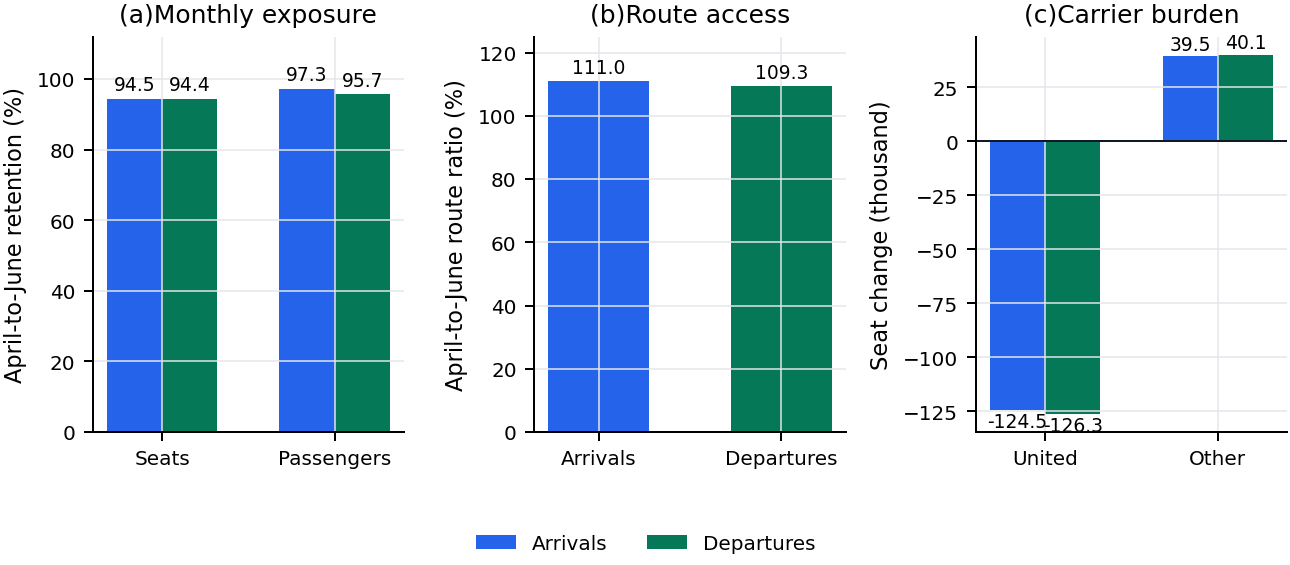
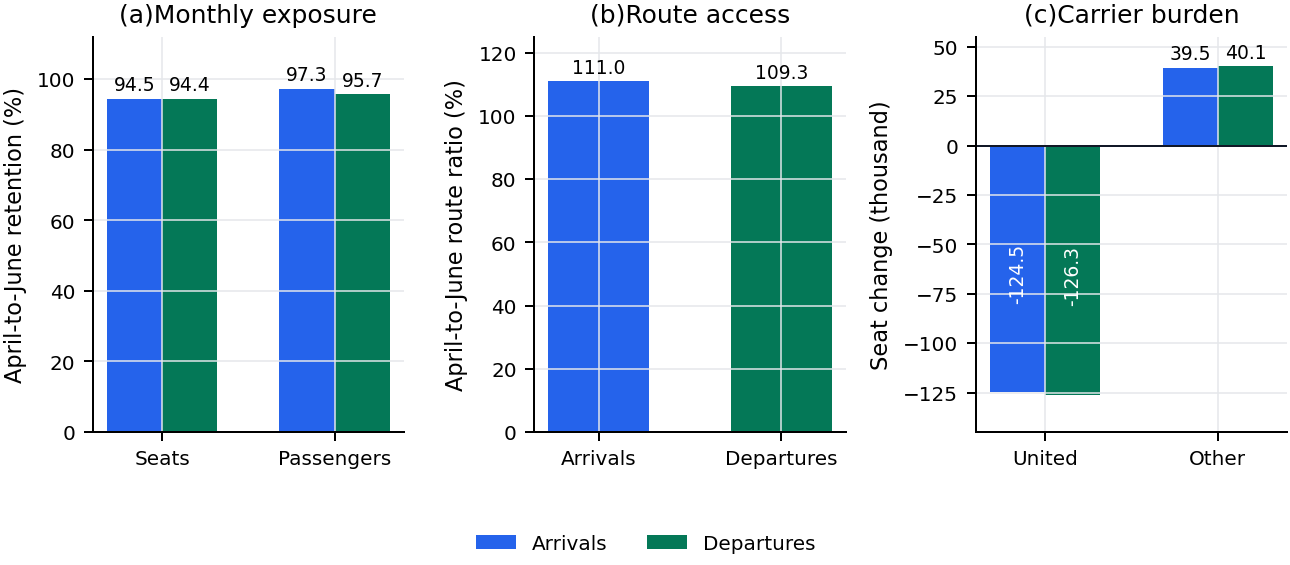
Refine policy mechanism table and carrier burden figure

diff --git a/src/add_operational_policy_mechanism_checks.py b/src/add_operational_policy_mechanism_checks.py
@@ -151,9 +151,7 @@ def build_bridge(data: dict[str, pd.DataFrame]) -> pd.DataFrame:
             "layer": "Capacity governance",
             "operational_complication": "Scheduled access target",
             "evidence_bridge": (
-                f"BTS ops/day: ARR {bold(num(arr_ops_delta))}, DEP {bold(num(dep_ops_delta))}; "
-                f"DID: ARR {bold(num(did_coef(did, 'arr', 'scheduled_ops')))}, "
-                f"DEP {bold(num(did_coef(did, 'dep', 'scheduled_ops')))}."
+                f"BTS ops/day: ARR {bold(num(arr_ops_delta))}, DEP {bold(num(dep_ops_delta))}."
             ),
         },
         {
@@ -163,8 +161,7 @@ def build_bridge(data: dict[str, pd.DataFrame]) -> pd.DataFrame:
                 f"DEP p95 hourly scheduled ops falls {num(dep_hour_stress['p95_ops_per_hour'], 0)} to "
                 f"{bold(num(dep_hour_interim['p95_ops_per_hour'], 0))}; "
                 f"DEP hours above 28 fall {pct(dep_hour_stress['share_above_28'])} to "
-                f"{bold(pct(dep_hour_interim['share_above_28']))}. "
-                f"ARR p95 stays {num(arr_hour_stress['p95_ops_per_hour'], 0)} to {num(arr_hour_interim['p95_ops_per_hour'], 0)}."
+                f"{bold(pct(dep_hour_interim['share_above_28']))}."
             ),
         },
         {
@@ -172,18 +169,16 @@ def build_bridge(data: dict[str, pd.DataFrame]) -> pd.DataFrame:
             "operational_complication": "Realized service quality",
             "evidence_bridge": (
                 f"ARR NAS min/op falls {num(arr_nas_stress)} to {bold(num(arr_nas_interim))}; "
-                f"D15+ falls {pct(arr_d15_stress)} to {bold(pct(arr_d15_interim))}; "
-                f"cancellations fall {pct(arr_cancel_stress)} to {bold(pct(arr_cancel_interim))}."
+                f"D15+ falls {pct(arr_d15_stress)} to {bold(pct(arr_d15_interim))}."
             ),
         },
         {
             "layer": "Counterfactual credibility",
             "operational_complication": "Compound recovery setting",
             "evidence_bridge": (
-                f"No-weather ARR NAS DID is {bold(num(arr_nas_no_weather))}; "
                 f"SC ARR NAS gap is {bold(num(arr_sc['recovery_gap']))} with rank "
                 f"{bold(str(int(arr_sc_placebo['rank_recovery_most_negative'])) + '/' + str(int(arr_sc_placebo['airports'])))}; "
-                f"donor-exclusion gaps range {bold(num(excl_min))} to {bold(num(excl_max))}."
+                f"no-weather ARR NAS DID is {bold(num(arr_nas_no_weather))}."
             ),
         },
         {
@@ -192,8 +187,6 @@ def build_bridge(data: dict[str, pd.DataFrame]) -> pd.DataFrame:
             "evidence_bridge": (
                 f"Weekly market retention: ARR {bold(pct(route_retention(route, 'arr', 'weekly')))}, "
                 f"DEP {bold(pct(route_retention(route, 'dep', 'weekly')))}; "
-                f"T-100 seat retention: ARR {bold(pct(t100_value(t100, 'arr', 'seat_retention_apr_to_jun')))}, "
-                f"DEP {bold(pct(t100_value(t100, 'dep', 'seat_retention_apr_to_jun')))}; "
                 f"United ops/day: ARR {bold(num(carrier_delta(carrier, 'United', 'arr')))}, "
                 f"DEP {bold(num(carrier_delta(carrier, 'United', 'dep')))}."
             ),

diff --git a/src/make_figures.py b/src/make_figures.py
@@ -16,8 +16,8 @@ RESULT_DIR = PROJECT_ROOT / "results" / "ewr_2025_full"
 DID_DIR = PROJECT_ROOT / "results" / "did_robustness"
 CAL_PLACEBO_DIR = PROJECT_ROOT / "results" / "calendar_placebo_2024"
 TRA_DIR = PROJECT_ROOT / "results" / "tra_policy_experiments"
+FIGURE_DIR = PROJECT_ROOT / "article" / "elsarticle" / "figures"
 PREVIEW_DIR = PROJECT_ROOT / "results" / "figure_previews"
-FIGURE_DIR = PREVIEW_DIR
 
 
 PERIODS = [
@@ -204,12 +204,14 @@ def make_access_exposure_figure(t100_summary: pd.DataFrame, carrier_summary: pd.
         pos = x + (i - 0.5) * width
         ax.bar(pos, vals / 1000, width=width, color=colors[side], label=side_labels[side])
         for p, v in zip(pos, vals / 1000):
-            va = "top" if v < 0 else "bottom"
-            offset = -1.0 if v < 0 else 1.0
-            ax.text(p, v + offset, f"{v:.1f}", ha="center", va=va, fontsize=7.5)
+            if v < 0:
+                ax.text(p, v * 0.52, f"{v:.1f}", ha="center", va="center", fontsize=7.5, rotation=90, color="white")
+            else:
+                ax.text(p, v + 2.0, f"{v:.1f}", ha="center", va="bottom", fontsize=7.5)
     ax.axhline(0, color="#111827", linewidth=0.8)
     ax.set_xticks(x)
     ax.set_xticklabels(["United", "Other"])
+    ax.set_ylim(-145, 55)
     ax.set_ylabel("Seat change (thousand)")
     ax.set_title("(c)Carrier burden", loc="center")
 

diff --git a/results/operational_policy_mechanism/summary.md b/results/operational_policy_mechanism/summary.md
@@ -1,9 +1,9 @@
 # Operational-policy mechanism bridge
 
-| layer                      | operational_complication          | evidence_bridge                                                                                                                                                                            |
-|:---------------------------|:----------------------------------|:-------------------------------------------------------------------------------------------------------------------------------------------------------------------------------------------|
-| Capacity governance        | Scheduled access target           | BTS ops/day: ARR \textbf{-28.2}, DEP \textbf{-28.5}; DID: ARR \textbf{-37.4}, DEP \textbf{-37.7}.                                                                                          |
-| Peak-hour pressure         | Bank and peak exposure            | DEP p95 hourly scheduled ops falls 28 to \textbf{23}; DEP hours above 28 fall 2.7\% to \textbf{0.0\%}. ARR p95 stays 21 to 21.                                                             |
-| Delivered reliability      | Realized service quality          | ARR NAS min/op falls 40.6 to \textbf{10.5}; D15+ falls 46.9\% to \textbf{25.6\%}; cancellations fall 5.2\% to \textbf{0.5\%}.                                                              |
-| Counterfactual credibility | Compound recovery setting         | No-weather ARR NAS DID is \textbf{-28.9}; SC ARR NAS gap is \textbf{-25.3} with rank \textbf{1/50}; donor-exclusion gaps range \textbf{-29.7} to \textbf{-32.0}.                           |
-| Access and burden          | Route access and carrier response | Weekly market retention: ARR \textbf{98.5\%}, DEP \textbf{98.5\%}; T-100 seat retention: ARR \textbf{94.5\%}, DEP \textbf{94.4\%}; United ops/day: ARR \textbf{-32.2}, DEP \textbf{-32.6}. |
+| layer                      | operational_complication          | evidence_bridge                                                                                                            |
+|:---------------------------|:----------------------------------|:---------------------------------------------------------------------------------------------------------------------------|
+| Capacity governance        | Scheduled access target           | BTS ops/day: ARR \textbf{-28.2}, DEP \textbf{-28.5}.                                                                       |
+| Peak-hour pressure         | Bank and peak exposure            | DEP p95 hourly scheduled ops falls 28 to \textbf{23}; DEP hours above 28 fall 2.7\% to \textbf{0.0\%}.                     |
+| Delivered reliability      | Realized service quality          | ARR NAS min/op falls 40.6 to \textbf{10.5}; D15+ falls 46.9\% to \textbf{25.6\%}.                                          |
+| Counterfactual credibility | Compound recovery setting         | SC ARR NAS gap is \textbf{-25.3} with rank \textbf{1/50}; no-weather ARR NAS DID is \textbf{-28.9}.                        |
+| Access and burden          | Route access and carrier response | Weekly market retention: ARR \textbf{98.5\%}, DEP \textbf{98.5\%}; United ops/day: ARR \textbf{-32.2}, DEP \textbf{-32.6}. |
